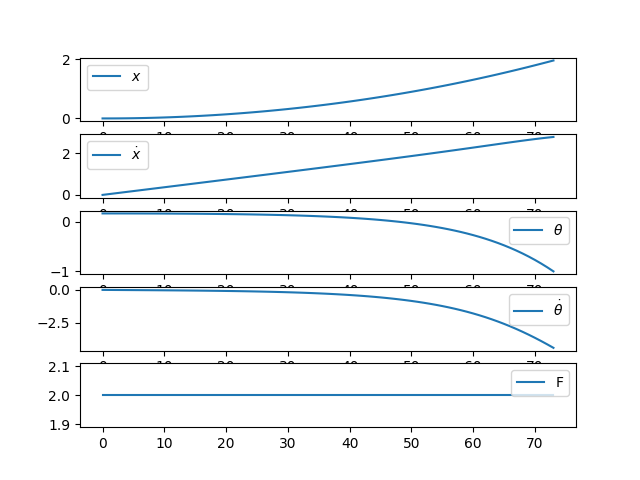
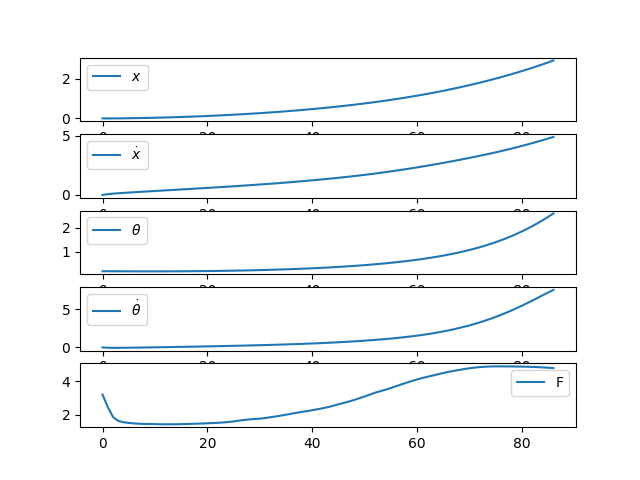
updated

diff --git a/experiments/A2C_n_step.py b/experiments/A2C_n_step.py
@@ -10,7 +10,7 @@ from estimators.mlp import MLP as MLP_V
 n_episodes = 10000
 gamma      = 0.99  # Discount factor
 device     = 'cpu'
-step_size  = 20  # This is the n value for the future n steps of the algorithm
+step_size  = 5  # This is the n value for the future n steps of the algorithm
 c_ent      = 0.01 # This is the entropy coefficient 
 seed       = 42
 # Policy hyper-parameters
@@ -18,7 +18,7 @@ action_type = 'continuous'
 n_layers   = 2
 hidden_dim = 128
 action_dim = 2
-actor_lr   = 0.0001
+actor_lr   = 0.001
 critic_lr = 0.001
 max_action = 2
 torch.manual_seed(seed)
@@ -38,75 +38,80 @@ critic_optimizer = optim.Adam(V_phi.parameters(), lr=critic_lr)
 criterion   = nn.MSELoss()
 
 
-rewards = []
+episode_rewards = []
 for episode in range(1,n_episodes):
     env.reset()
     state = env.current_state
     print(f'Episode: {episode}')
-    states      = []
-    actions     = []
-    rewards     = []
-    next_states = []
+    states      = torch.zeros((step_size, env.state_dim))
+    actions     = torch.zeros((step_size, 1))
+    rewards     = torch.zeros((step_size, 1))
+    next_states = torch.zeros((step_size, env.state_dim))
     terminates  = []
-    log_probs   = []
-    entropy_loss = []
+    log_probs   = torch.zeros((step_size, 1))
+    entropy_loss = torch.zeros((step_size, 1))
     sum_rewards = 0
     step        = 0
+    buffer_idx  = 0
 
     while True:
         action, action_env, log_prob, entropy_l = agent.get_action_g(state)
-
-        log_probs.append(log_prob)
-        entropy_loss.append(entropy_l)
         next_state, reward, terminate = env.step(state, action_env, step)
-        states.append(state)
-        actions.append(action)
-        rewards.append(reward)
-        next_states.append(next_state)
+        
+        states[buffer_idx]         = state
+        actions[buffer_idx]        = action
+        log_probs[buffer_idx]      = log_prob
+        entropy_loss[buffer_idx]   = entropy_l
+        rewards[buffer_idx]        = reward
+        next_states[buffer_idx]    = next_state
         terminates.append(terminate)
 
-        if len(states) == step_size or (len(states) < step_size and terminate == 'terminal') or (len(states) < step_size and terminate == 'truncate'):
-
+        if buffer_idx == (step_size-1) or (buffer_idx < step_size and terminate == 'terminal') or (buffer_idx < step_size and terminate == 'truncate'):
             if terminates[-1] == 'terminal':
                 g = 0
             else:
                 g = V_phi(next_states[-1]).detach()
-            i = len(rewards) - 1
-            for reward in rewards[::-1]:
+            
+            returns = torch.zeros((buffer_idx+1,1)) # We use step as the size because in the latter part, the whole batch may not be full
+            for idx in range(buffer_idx,-1,-1):
                 # We use the same list to calculate the returns
-                g = gamma * g + reward
-                rewards[i] = g  # This actually has the targets for the critic
-                i -= 1
+                g = gamma * g + rewards[idx]
+                returns[idx] = g  # This actually has the targets for the critic
 
-            V_s = V_phi(torch.stack(states))
+            V_s = V_phi(states[:buffer_idx+1,:])
             # Updating the critic
             critic_optimizer.zero_grad()
-            critic_loss = criterion(V_s, torch.stack(rewards))
+            
+            critic_loss = criterion(V_s, returns)
             critic_loss.backward()
             critic_optimizer.step()
 
             # Updating the actor
             actor_optimizer.zero_grad()
-            actor_loss = -((torch.stack(log_probs) * (torch.stack(rewards) - V_s.detach()).squeeze(-1))).mean() - c_ent * torch.stack(entropy_loss).mean()
+            actor_loss = -((log_probs[:buffer_idx+1,:] * returns - V_s.detach()).squeeze(-1)).mean() - c_ent * entropy_loss[:buffer_idx+1,:].mean()
             actor_loss.backward()
             actor_optimizer.step()
 
-            states          = []
-            actions         = []
-            rewards         = []
-            next_states     = []
-            terminates      = []
-            log_probs       = []
-            entropy_loss    = []
+            states      = torch.zeros((step_size, env.state_dim))
+            actions     = torch.zeros((step_size, 1))
+            rewards     = torch.zeros((step_size, 1))
+            next_states = torch.zeros((step_size, env.state_dim))
+            terminates  = []
+            log_probs   = torch.zeros((step_size, 1))
+            entropy_loss = torch.zeros((step_size, 1))
+            buffer_idx = 0
+
 
         if terminate == 'terminal' or terminate == 'truncate':
             break
             
         state = next_state
         step += 1
+        buffer_idx += 1
         sum_rewards += reward
-    rewards.append(sum_rewards)
+    episode_rewards.append(sum_rewards)
 
     # plotting the result every 1000 episodes
     if episode % 200 == 0:
         env.test_policy(agent, episode//200)
+        env.plot_rewards(episode_rewards)

diff --git a/experiments/A2C_one_step.py b/experiments/A2C_one_step.py
@@ -6,7 +6,7 @@ from estimators.mlp import MLP as MLP_V
 
 # General hyper-parameters
 n_episodes = 10000
-gamma      = 0.99  # Discount factor
+gamma      = 0.995  # Discount factor
 device     = 'cpu'
 seed       = 42
 
@@ -15,9 +15,9 @@ action_type = 'continuous'
 n_layers   = 2
 hidden_dim = 128
 action_dim = 2
-actor_lr   = 0.00001
-critic_lr = 0.00001
-max_action = 2
+actor_lr   = 0.0001
+critic_lr = 0.0001
+max_action = 5
 
 torch.manual_seed(seed)
 
@@ -46,7 +46,7 @@ for episode in range(1,n_episodes):
     sum_rewards = 0
 
     while True:
-        action, action_env, log_prob, _ = agent.get_action_g(state)
+        _, action_env, log_prob, _ = agent.get_action_g(state)
 
         next_state, reward, terminate = env.step(state, action_env, step)
 
@@ -54,7 +54,7 @@ for episode in range(1,n_episodes):
         V_s = V_phi(state.squeeze(-1))
         if terminate == 'terminal':
             delta_t = reward - V_s.detach()
-            target  = reward
+            target  = reward.unsqueeze(-1)
         else:
             V_s_1 = V_phi(next_state.squeeze(-1)).detach()
             delta_t = reward + gamma * V_s_1 - V_s

diff --git a/experiments/ppo.py b/experiments/ppo.py
@@ -29,7 +29,7 @@ config = {
 'batch_size' : 32,
 'n_epochs' : 5,
 'epsilon'  : 0.2, # This is the clipping threshold for the actor loss
-'c_ent'    : 0.001 # Entropy loss coefficient
+'c_ent'    : 0.0001 # Entropy loss coefficient
 }
 
 torch.manual_seed(seed)
